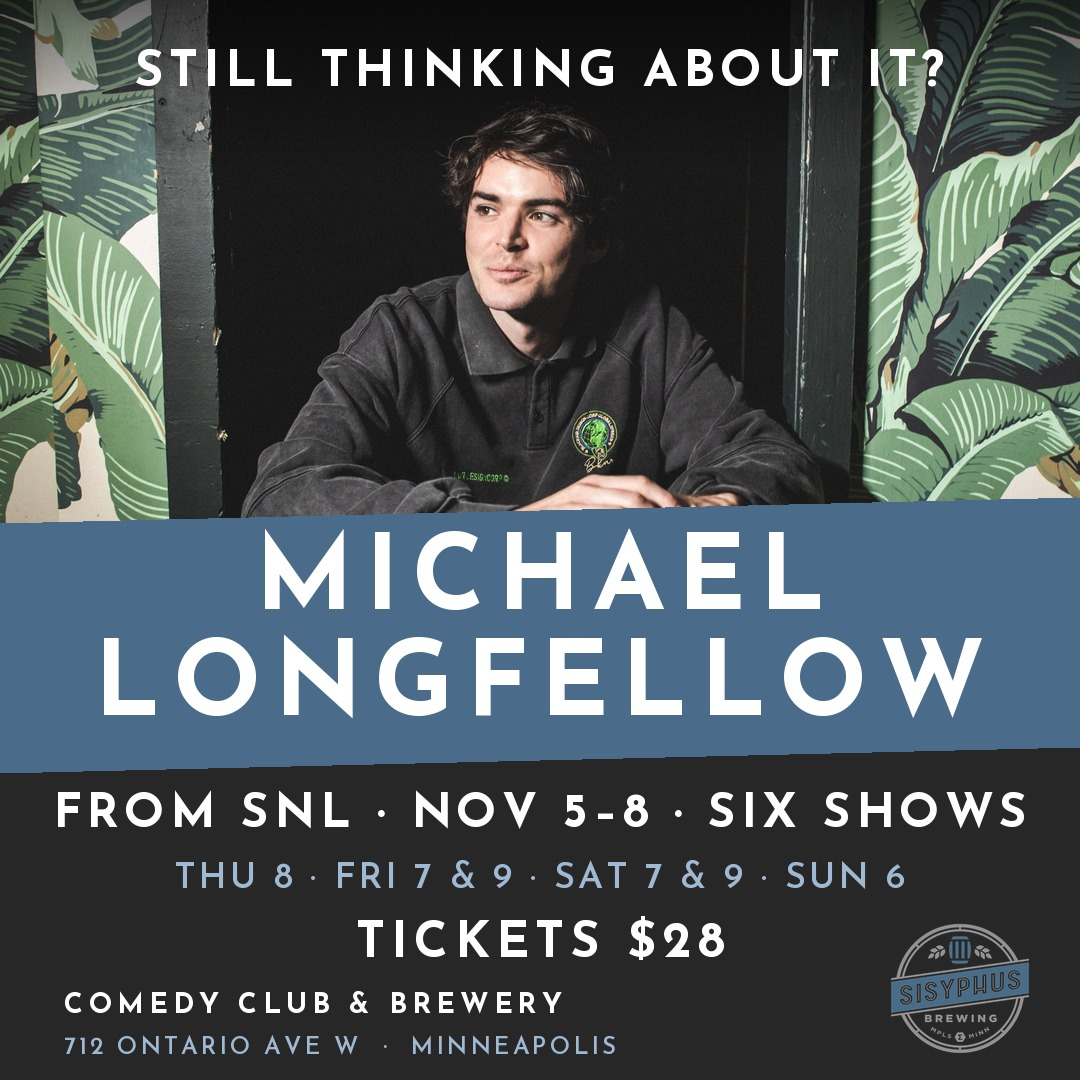
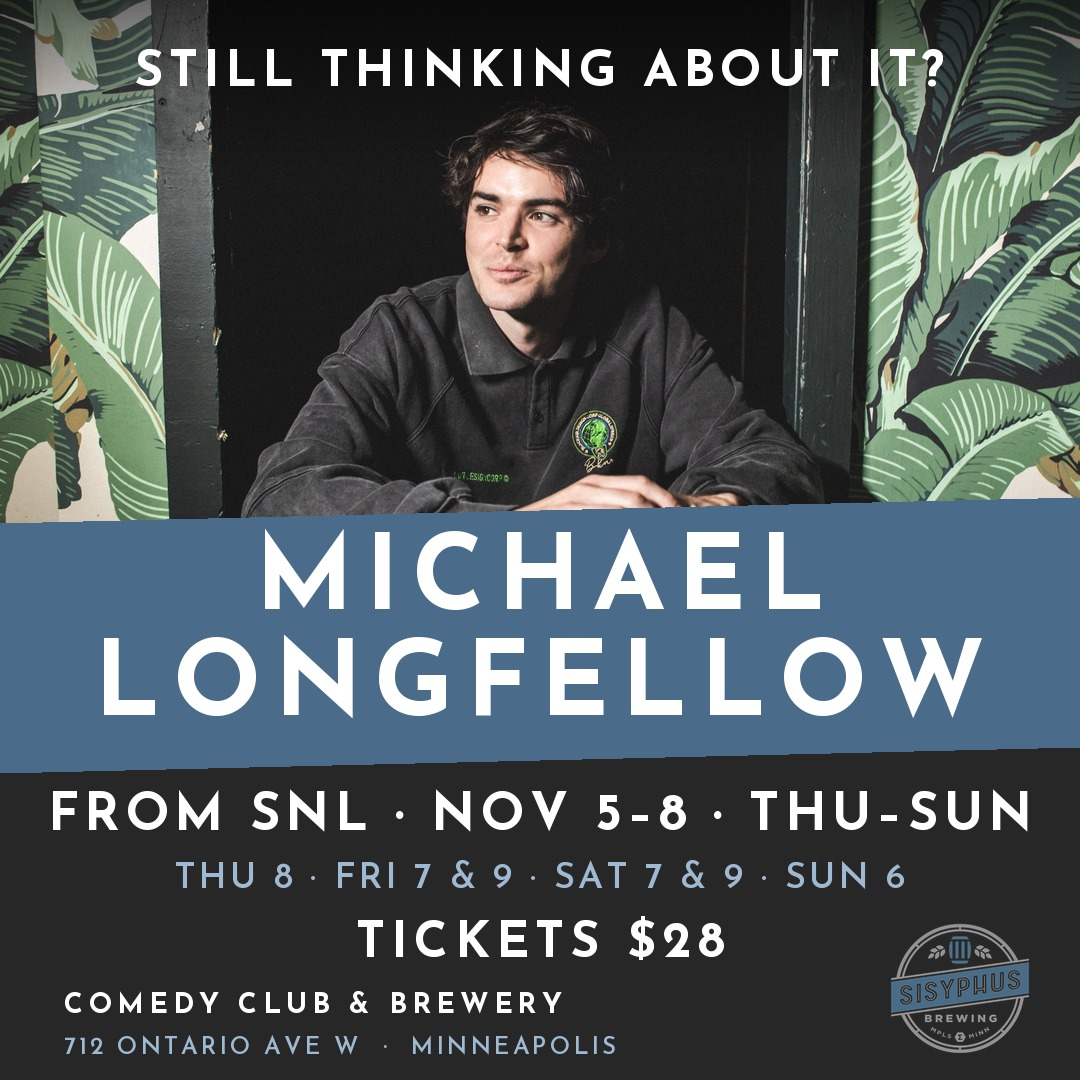
Longfellow ad images: drop the show count (Sam's copy rule), comedy club first
Claude-Session: https://claude.ai/code/session_01JVNgcRiP55NefNJ7popbaY

Changed region(s): [[0.3667, 0.7333, 0.9778, 0.7639], [0.0306, 0.7333, 0.3361, 0.7944]]

diff --git a/ads/make_michael_longfellow_ads.py b/ads/make_michael_longfellow_ads.py
@@ -81,8 +81,8 @@ if __name__ == "__main__":
     out = sys.argv[1]
     TIMES, PRICE = "THU 8 · FRI 7 & 9 · SAT 7 & 9 · SUN 6", "TICKETS $28"
     ADS = (
-        ("tickets", "THREE SEASONS OF SNL. ONE BREWERY.", "NOV 5–8 · SIX SHOWS"),
-        ("remarketing", "STILL THINKING ABOUT IT?", "FROM SNL · NOV 5–8 · SIX SHOWS"),
+        ("tickets", "THREE SEASONS OF SNL. ONE COMEDY CLUB.", "NOV 5–8 · THU–SUN"),
+        ("remarketing", "STILL THINKING ABOUT IT?", "FROM SNL · NOV 5–8 · THU–SUN"),
         ("room", "THESE THREE STILL HAVE ROOM.", "FRI 9PM · SAT 9PM · SUN 6PM"),
     )
     for kind, kicker, big in ADS:
